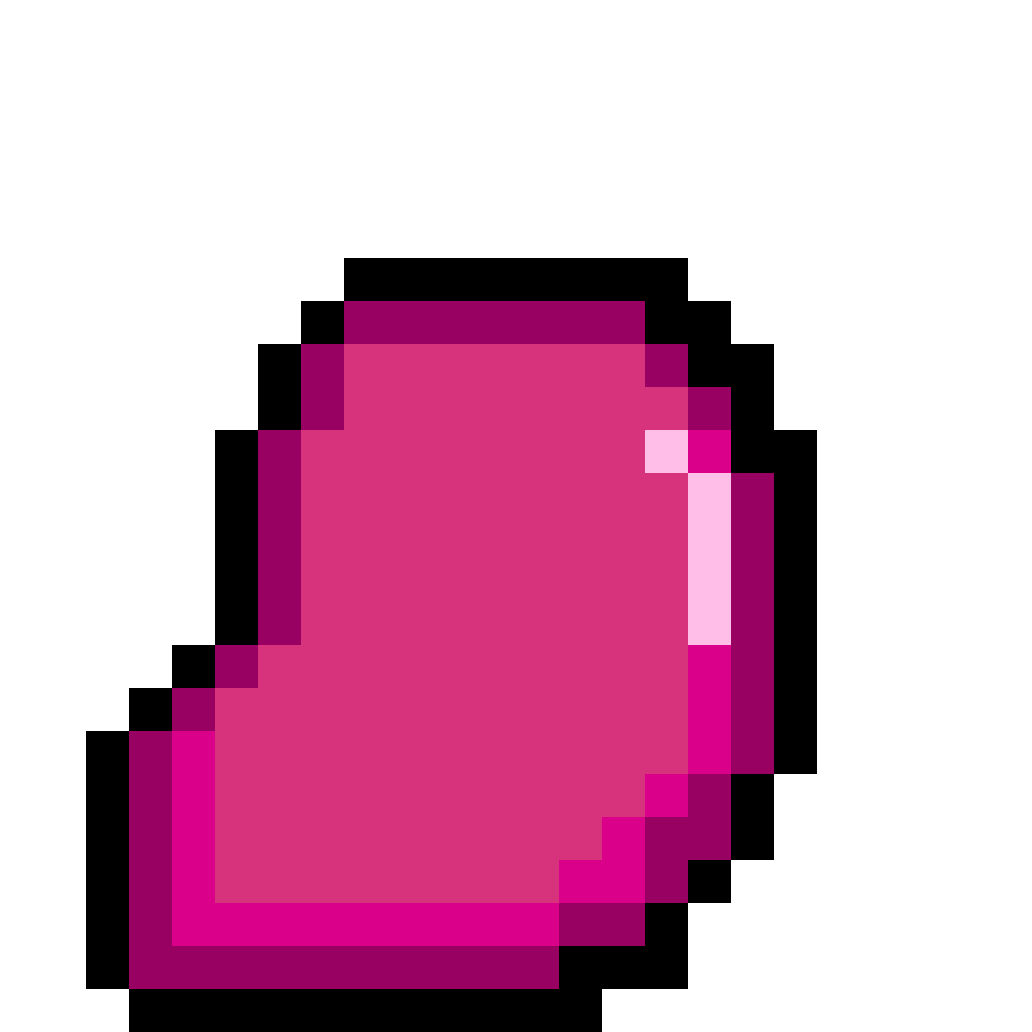
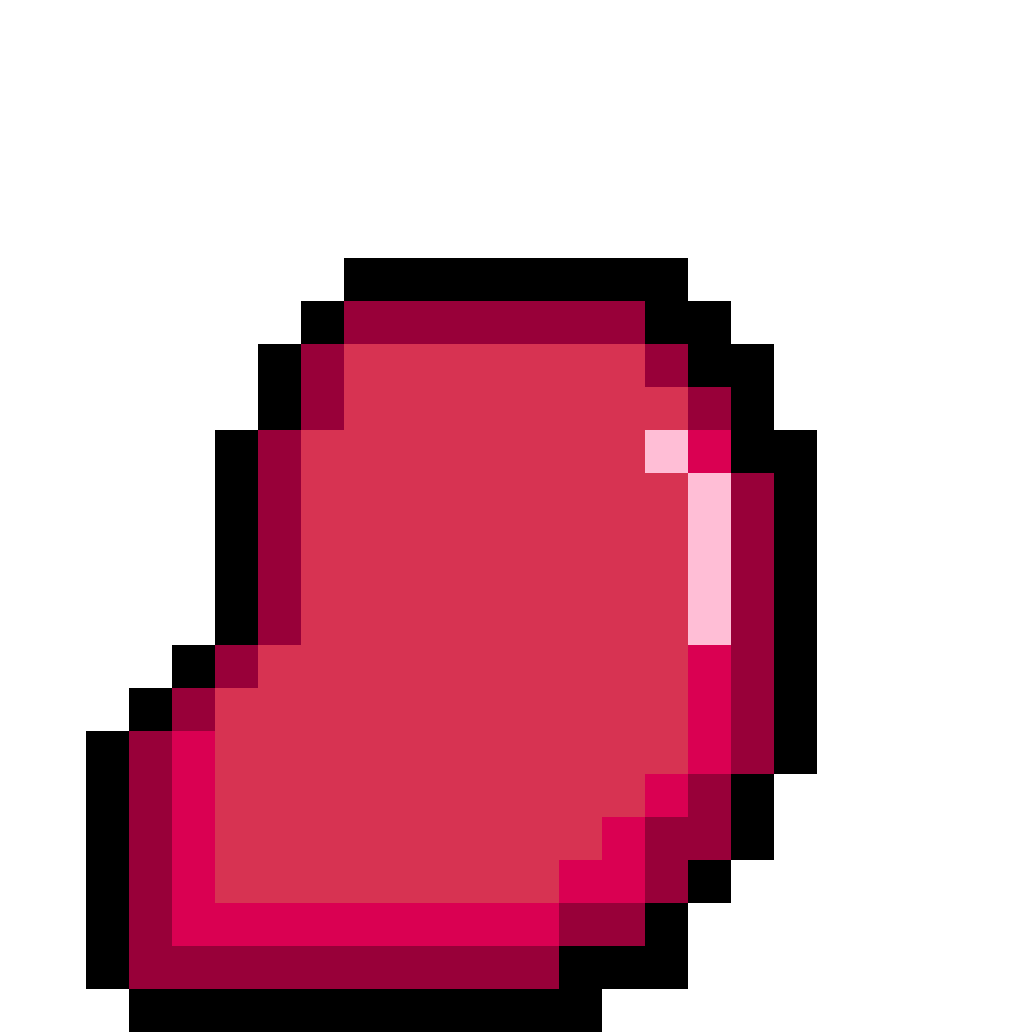
png画像追加と更新

diff --git a/public/script.js b/public/script.js
@@ -16,7 +16,7 @@ function generatePixelArt() {
   const head = new Image();
   const eye = new Image();
 
-  body.src = getRandomPart("body", 47);
+  body.src = getRandomPart("body", 48);
   head.src = getRandomPart("head", 24);
   eye.src = getRandomPart("eye", 8);
 
